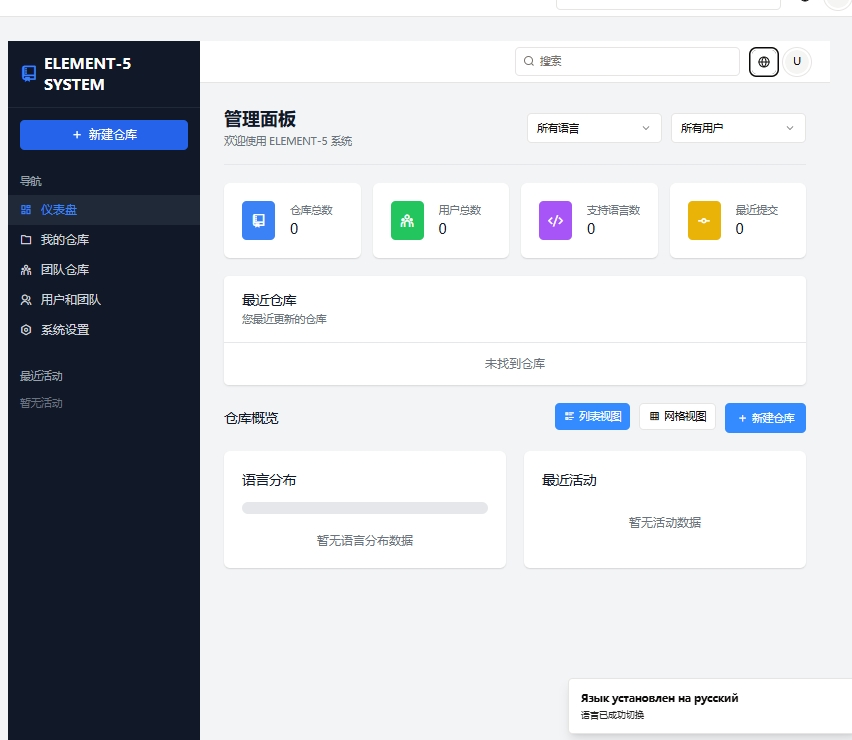
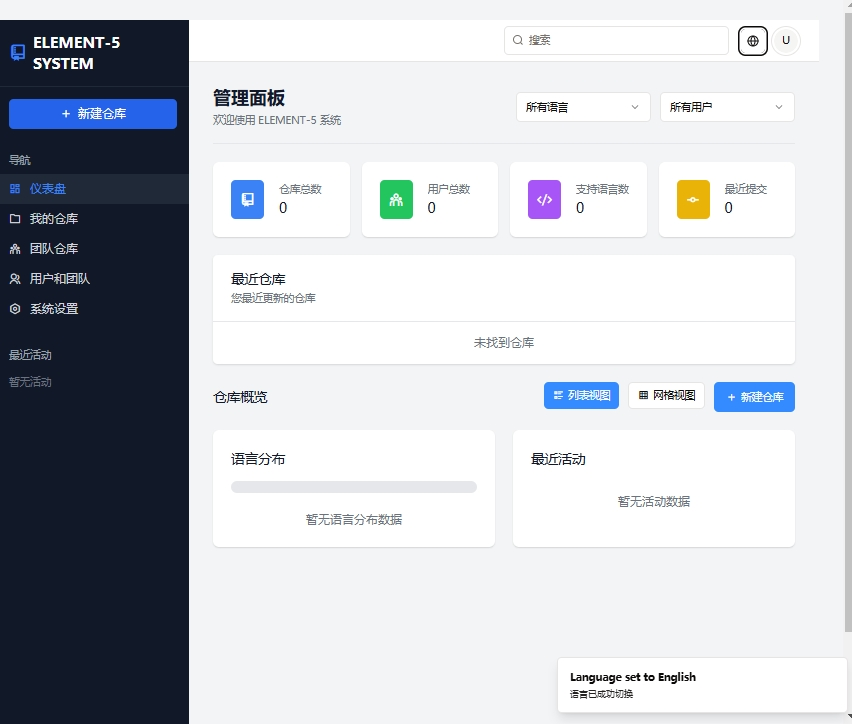
Add Kazakh and Uzbek language support to the user interface.
Replit-Commit-Author: Agent
Replit-Commit-Session-Id: 60f3dffa-2fb3-478a-a123-ed03e427b74c
Replit-Commit-Screenshot-Url: https://storage.googleapis.com/screenshot-production-us-central1/02747779-55b8-4c50-aad4-a7eafbc2972b/e5a2f587-ceae-46b4-8ec6-9484f598a838.jpg

diff --git a/client/src/i18n.ts b/client/src/i18n.ts
@@ -1,6 +1,5 @@
 import i18n from 'i18next';
 import { initReactI18next } from 'react-i18next';
-import HttpBackend from 'i18next-http-backend';
 
 // 定义多语言翻译资源
 const resources = {
@@ -237,7 +236,21 @@ const resources = {
         name: "ELEMENT-5 Қойма басқару жүйесі",
         version: "Нұсқасы 1.0.0"
       },
+      sidebar: {
+        navigation: "Навигация",
+        recentActivity: "Соңғы белсенділік",
+        noActivity: "Белсенділік жоқ",
+        newRepository: "Жаңа репозиторий",
+        navigation_items: {
+          dashboard: "Басқару тақтасы",
+          myRepositories: "Менің репозиторийлерім",
+          teamRepositories: "Команда репозиторийлері",
+          usersAndTeams: "Пайдаланушылар мен командалар",
+          settings: "Параметрлер"
+        }
+      },
       header: {
+        searchPlaceholder: "Іздеу",
         language: {
           title: "Тілді ауыстыру",
           zh: "Қытай",
@@ -245,14 +258,50 @@ const resources = {
           ru: "Орыс",
           kk: "Қазақ",
           uz: "Өзбек"
+        },
+        account: {
+          myAccount: "Менің аккаунтым",
+          profile: "Профиль",
+          settings: "Параметрлер",
+          logout: "Шығу"
         }
       },
+      languageDistribution_title: "Тілдер таралуы",
+      languageDistribution_noData: "Тілдер таралуы туралы деректер жоқ",
+      recentActivity_title: "Соңғы белсенділік",
+      recentActivity_noData: "Соңғы белсенділік жоқ",
       time: {
         justNow: "дәл қазір",
         minutesAgo: "{{value}} минут бұрын",
         hoursAgo: "{{value}} сағат бұрын",
         yesterday: "кеше",
         daysAgo: "{{value}} күн бұрын"
+      },
+      in: "ішінде",
+      dashboard: {
+        welcome: "ELEMENT-5 жүйесіне қош келдіңіз",
+        statsTitle: "Жүйе статистикасы",
+        repositoriesCount: "Барлық репозиторийлер",
+        usersCount: "Барлық пайдаланушылар",
+        languagesCount: "Тілдер саны",
+        commitsCount: "Соңғы жазбалар",
+        createRepository: "Репозиторий жасау",
+        filterByLanguage: "Тіл бойынша сүзу",
+        filterByUser: "Пайдаланушы бойынша сүзу",
+        allLanguages: "Барлық тілдер",
+        allUsers: "Барлық пайдаланушылар",
+        listView: "Тізім көрінісі",
+        gridView: "Торлы көрініс"
+      },
+      warehouse: {
+        products: "Тауарлар",
+        warehouses: "Қоймалар",
+        inbound: "Кіріс тапсырыстары",
+        outbound: "Шығыс тапсырыстары",
+        inventory: "Түгендеу",
+        ecommerce: "Электрондық коммерция платформалары",
+        barcode: "Штрих-код сканері",
+        settings: "Жүйе параметрлері"
       }
     }
   },
@@ -262,7 +311,21 @@ const resources = {
         name: "ELEMENT-5 Ombor boshqaruv tizimi",
         version: "Versiya 1.0.0"
       },
+      sidebar: {
+        navigation: "Navigatsiya",
+        recentActivity: "So'nggi faoliyat",
+        noActivity: "Faoliyat yo'q",
+        newRepository: "Yangi repozitoriy",
+        navigation_items: {
+          dashboard: "Boshqaruv paneli",
+          myRepositories: "Mening repozitoriylarim",
+          teamRepositories: "Jamoa repozitoriylari",
+          usersAndTeams: "Foydalanuvchilar va jamoalar",
+          settings: "Sozlamalar"
+        }
+      },
       header: {
+        searchPlaceholder: "Qidirish",
         language: {
           title: "Tilni o'zgartirish",
           zh: "Xitoy",
@@ -270,14 +333,50 @@ const resources = {
           ru: "Rus",
           kk: "Qozoq",
           uz: "O'zbek"
+        },
+        account: {
+          myAccount: "Mening hisobim",
+          profile: "Profil",
+          settings: "Sozlamalar",
+          logout: "Chiqish"
         }
       },
+      languageDistribution_title: "Tillar taqsimoti",
+      languageDistribution_noData: "Tillar taqsimoti bo'yicha ma'lumot yo'q",
+      recentActivity_title: "So'nggi faoliyat",
+      recentActivity_noData: "So'nggi faoliyat yo'q",
       time: {
         justNow: "hozirgina",
         minutesAgo: "{{value}} daqiqa oldin",
         hoursAgo: "{{value}} soat oldin",
         yesterday: "kecha",
         daysAgo: "{{value}} kun oldin"
+      },
+      in: "ichida",
+      dashboard: {
+        welcome: "ELEMENT-5 tizimiga xush kelibsiz",
+        statsTitle: "Tizim statistikasi",
+        repositoriesCount: "Jami repozitoriylar",
+        usersCount: "Jami foydalanuvchilar",
+        languagesCount: "Tillar soni",
+        commitsCount: "So'nggi yuborishlar",
+        createRepository: "Repozitoriy yaratish",
+        filterByLanguage: "Til bo'yicha filtrlash",
+        filterByUser: "Foydalanuvchi bo'yicha filtrlash",
+        allLanguages: "Barcha tillar",
+        allUsers: "Barcha foydalanuvchilar",
+        listView: "Ro'yxat ko'rinishi",
+        gridView: "Setka ko'rinishi"
+      },
+      warehouse: {
+        products: "Mahsulotlar",
+        warehouses: "Omborlar",
+        inbound: "Kirish buyurtmalari",
+        outbound: "Chiqish buyurtmalari",
+        inventory: "Inventarizatsiya",
+        ecommerce: "Elektron tijorat platformalari",
+        barcode: "Shtrix-kod skaneri",
+        settings: "Tizim sozlamalari"
       }
     }
   }
@@ -322,9 +421,8 @@ export const changeLanguage = (langCode: string) => {
   
   localStorage.setItem('i18nextLng', langCode);
   
-  // 强制重新加载 HTTP backend 中的资源
-  i18n.reloadResources([langCode]).then(() => {
-    i18n.changeLanguage(langCode);
+  // 更改语言
+  i18n.changeLanguage(langCode).then(() => {
     
     let message = '';
     switch(langCode) {
@@ -356,20 +454,18 @@ export const forceChineseLanguage = () => {
   return changeLanguage('zh');
 };
 
-// 初始化加载所有语言资源以确保它们可用
-i18n.reloadResources(['zh', 'en', 'ru', 'kk', 'uz']).then(() => {
-  console.log("所有语言资源已加载");
+// 初始化
+console.log("所有语言资源已加载");
   
-  // 读取之前保存的语言设置，如果没有则默认使用中文
-  const savedLanguage = localStorage.getItem('i18nextLng');
-  if (savedLanguage && ['zh', 'en', 'ru', 'kk', 'uz'].includes(savedLanguage)) {
-    i18n.changeLanguage(savedLanguage);
-    console.log(`已从本地存储加载语言: ${savedLanguage}`);
-  } else {
-    i18n.changeLanguage('zh');
-    localStorage.setItem('i18nextLng', 'zh');
-    console.log('默认使用中文');
-  }
-});
+// 读取之前保存的语言设置，如果没有则默认使用中文
+const savedLanguage = localStorage.getItem('i18nextLng');
+if (savedLanguage && ['zh', 'en', 'ru', 'kk', 'uz'].includes(savedLanguage)) {
+  i18n.changeLanguage(savedLanguage);
+  console.log(`已从本地存储加载语言: ${savedLanguage}`);
+} else {
+  i18n.changeLanguage('zh');
+  localStorage.setItem('i18nextLng', 'zh');
+  console.log('默认使用中文');
+}
 
 export default i18n;
